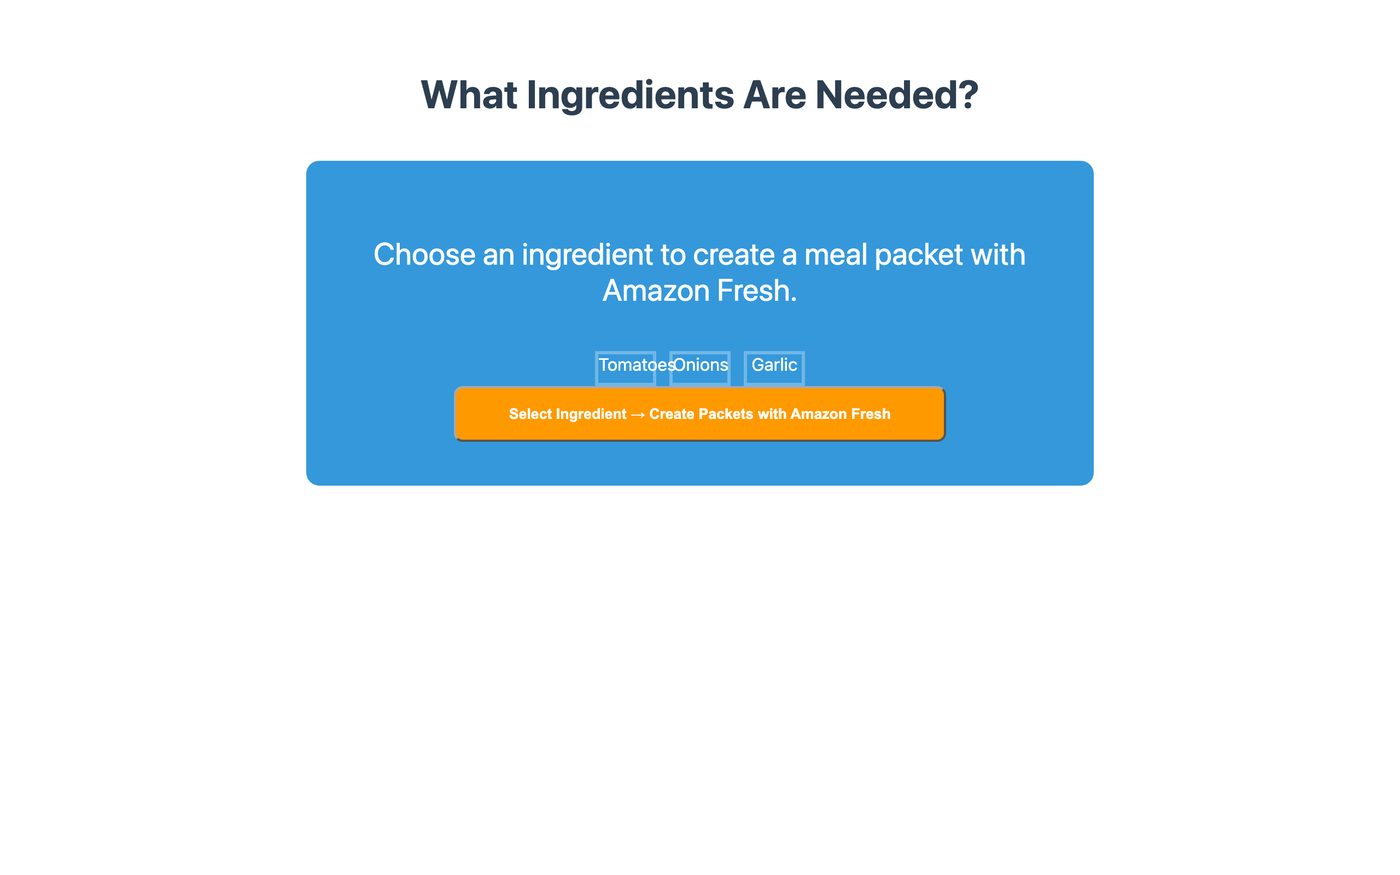
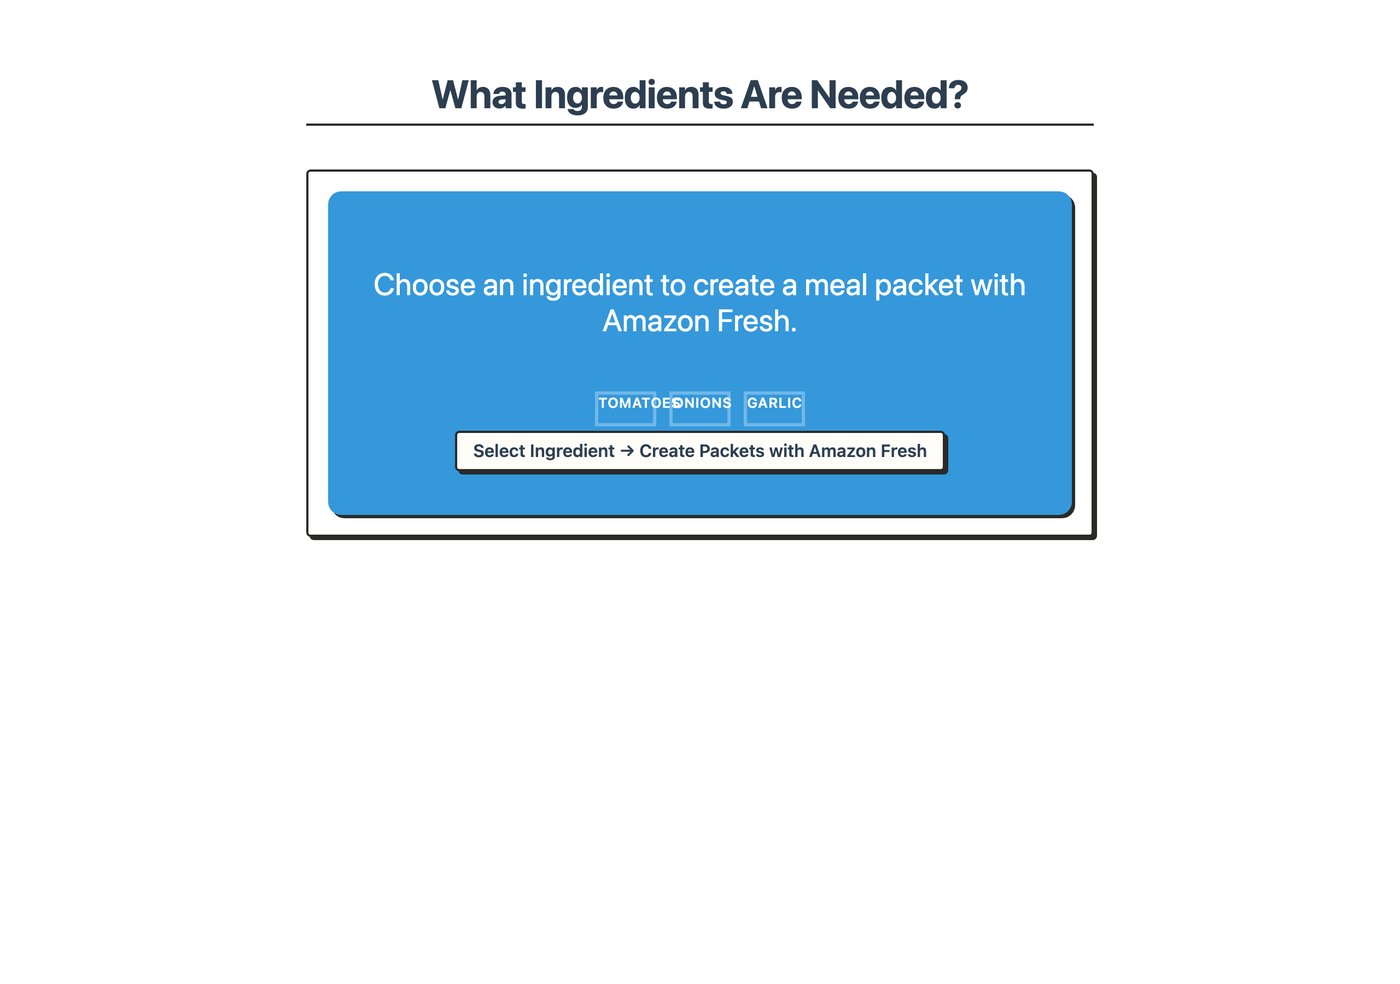
Fix recipe mockup CSS and recapture README wireframes.
HTML fragments now load the sketch kit. Screenshots are no longer
unstyled default-browser dumps.

Changed region(s): [[0.215, 0.0617, 0.7986, 0.5554], [0.2764, 0.2777, 0.7371, 0.3703]]

diff --git a/examples/recipe-share/mockups/archive-sketches/journeys/recipes/recipes.html b/examples/recipe-share/mockups/archive-sketches/journeys/recipes/recipes.html
@@ -1,3 +1,12 @@
+<!DOCTYPE html>
+<html lang="en">
+<head>
+<meta charset="utf-8">
+<meta name="viewport" content="width=device-width, initial-scale=1">
+<title>recipes</title>
+<link rel="stylesheet" href="../../tokens.sketch.css">
+</head>
+<body>
 <section data-rid="S-5b078f7b">
   <main>
     <h1>Create a recipe</h1>
@@ -83,3 +92,6 @@
     <p class="ok-msg">Step 2 is now “Add tomatoes, salt, and simmer 12 minutes”</p>
   </main>
 </section>
+
+</body>
+</html>

diff --git a/examples/recipe-share/mockups/journeys/sharing.html b/examples/recipe-share/mockups/journeys/sharing.html
@@ -1,3 +1,12 @@
+<!DOCTYPE html>
+<html lang="en">
+<head>
+<meta charset="utf-8">
+<meta name="viewport" content="width=device-width, initial-scale=1">
+<title>Share</title>
+<link rel="stylesheet" href="../wire.css">
+</head>
+<body>
 <div class="shalt-page">
   <header id="header" class="shalt-header">
     <nav id="navbar-nav">
@@ -79,3 +88,6 @@
 <script type="module">
   import { renderNavigation } from './assets/nav.js';
 </script>
+
+</body>
+</html>

diff --git a/examples/recipe-share/mockups/archive-sketches/journeys/video/video.html b/examples/recipe-share/mockups/archive-sketches/journeys/video/video.html
@@ -1,3 +1,12 @@
+<!DOCTYPE html>
+<html lang="en">
+<head>
+<meta charset="utf-8">
+<meta name="viewport" content="width=device-width, initial-scale=1">
+<title>video</title>
+<link rel="stylesheet" href="../../tokens.sketch.css">
+</head>
+<body>
 <section data-rid="S-1feef354">
   <main>
     <h1>Attach full-recipe video</h1>
@@ -88,3 +97,6 @@
     <p class="error">The tag is rejected</p>
   </main>
 </section>
+
+</body>
+</html>

diff --git a/examples/recipe-share/mockups/archive-sketches/journeys/ingredients/ingredients.html b/examples/recipe-share/mockups/archive-sketches/journeys/ingredients/ingredients.html
@@ -1,3 +1,12 @@
+<!DOCTYPE html>
+<html lang="en">
+<head>
+<meta charset="utf-8">
+<meta name="viewport" content="width=device-width, initial-scale=1">
+<title>ingredients</title>
+<link rel="stylesheet" href="../../tokens.sketch.css">
+</head>
+<body>
 <section data-rid="S-825b9723">
   <main>
     <h1>Group ingredients into a packet</h1>
@@ -93,3 +102,6 @@
     </div>
   </main>
 </section>
+
+</body>
+</html>

diff --git a/examples/recipe-share/mockups/archive-sketches/journeys/patrons/patrons.html b/examples/recipe-share/mockups/archive-sketches/journeys/patrons/patrons.html
@@ -1,3 +1,12 @@
+<!DOCTYPE html>
+<html lang="en">
+<head>
+<meta charset="utf-8">
+<meta name="viewport" content="width=device-width, initial-scale=1">
+<title>patrons</title>
+<link rel="stylesheet" href="../../tokens.sketch.css">
+</head>
+<body>
 <section data-rid="S-b11f635d">
   <main>
     <h1>Enable monthly patronage</h1>
@@ -89,3 +98,6 @@
     </div>
   </main>
 </section>
+
+</body>
+</html>

diff --git a/examples/recipe-share/mockups/archive-sketches/journeys/sharing/sharing.html b/examples/recipe-share/mockups/archive-sketches/journeys/sharing/sharing.html
@@ -1,3 +1,12 @@
+<!DOCTYPE html>
+<html lang="en">
+<head>
+<meta charset="utf-8">
+<meta name="viewport" content="width=device-width, initial-scale=1">
+<title>sharing</title>
+<link rel="stylesheet" href="../../tokens.sketch.css">
+</head>
+<body>
 <section data-rid="S-6c0b5135">
   <main>
     <h1>Publish recipe</h1>
@@ -58,3 +67,6 @@
     </div>
   </main>
 </section>
+
+</body>
+</html>

diff --git a/examples/recipe-share/mockups/journeys/recipes/recipes.html b/examples/recipe-share/mockups/journeys/recipes/recipes.html
@@ -4,7 +4,7 @@
     <meta charset="UTF-8">
     <meta name="viewport" content="width=device-width, initial-scale=1.0">
     <title>Create Recipe Share</title>
-    <link rel="stylesheet" href="../shalt.css">
+    <link rel="stylesheet" href="../../wire.css">
 </head>
 <body data-salt="#recipe-share-app">
 

diff --git a/examples/recipe-share/mockups/journeys/video/video.html b/examples/recipe-share/mockups/journeys/video/video.html
@@ -4,7 +4,7 @@
     <meta charset="UTF-8">
     <meta name="viewport" content="width=device-width, initial-scale=1.0">
     <title>Create Video</title>
-    <link rel="stylesheet" href="../shalt.css">
+    <link rel="stylesheet" href="../../wire.css">
 </head>
 <body data-salt="#video-app">
 

diff --git a/examples/recipe-share/mockups/journeys/patrons.html b/examples/recipe-share/mockups/journeys/patrons.html
@@ -1,1 +1,12 @@
+<!DOCTYPE html>
+<html lang="en">
+<head>
+<meta charset="utf-8">
+<meta name="viewport" content="width=device-width, initial-scale=1">
+<title>Patrons</title>
+<link rel="stylesheet" href="../wire.css">
+</head>
+<body>
 [already written, 2815 chars]
+</body>
+</html>

diff --git a/examples/recipe-share/mockups/journeys/ingredients/success.html b/examples/recipe-share/mockups/journeys/ingredients/success.html
@@ -1,6 +1,7 @@
 <!DOCTYPE html>
 <html lang="en">
 <head>
+<link rel="stylesheet" href="../../wire.css">
   <meta charset="UTF-8">
   <title>Ingest Ingredients - Success State</title>
   <style>

diff --git a/examples/recipe-share/mockups/journeys/ingredients/results.html b/examples/recipe-share/mockups/journeys/ingredients/results.html
@@ -1,6 +1,7 @@
 <!DOCTYPE html>
 <html lang="en">
 <head>
+<link rel="stylesheet" href="../../wire.css">
   <meta charset="UTF-8">
   <title>Packet Details - Shalt</title>
   <style>

diff --git a/examples/recipe-share/mockups/journeys/ingredients/ingredients.html b/examples/recipe-share/mockups/journeys/ingredients/ingredients.html
@@ -1,6 +1,7 @@
 <!DOCTYPE html>
 <html lang="en">
 <head>
+<link rel="stylesheet" href="../../wire.css">
   <meta charset="UTF-8">
   <title>Ingest Ingredients</title>
   <style>
